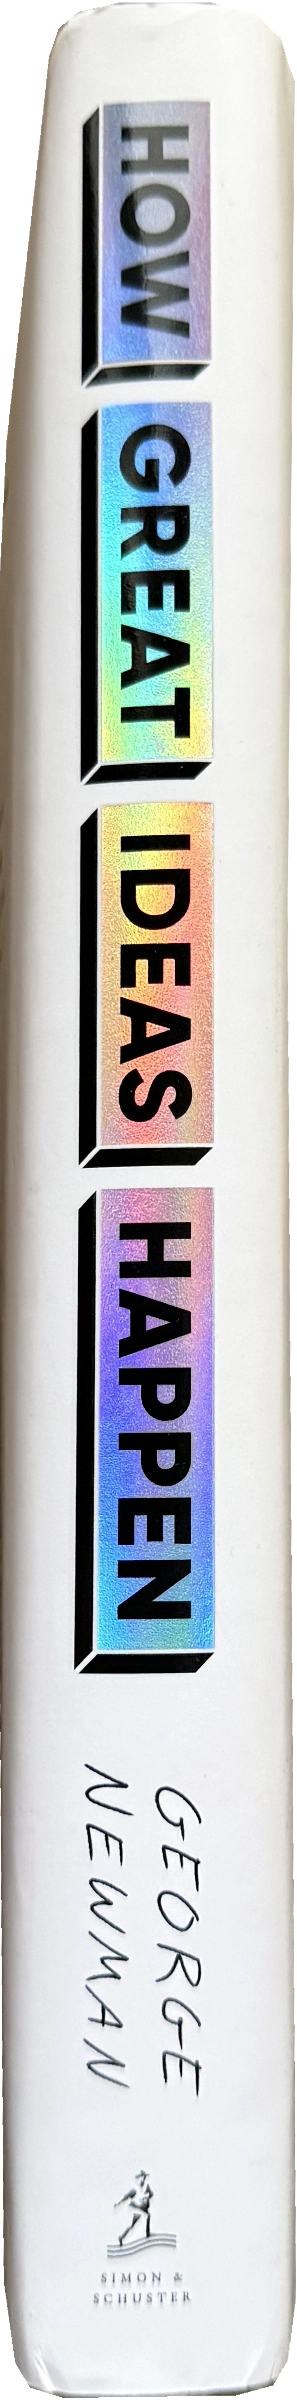
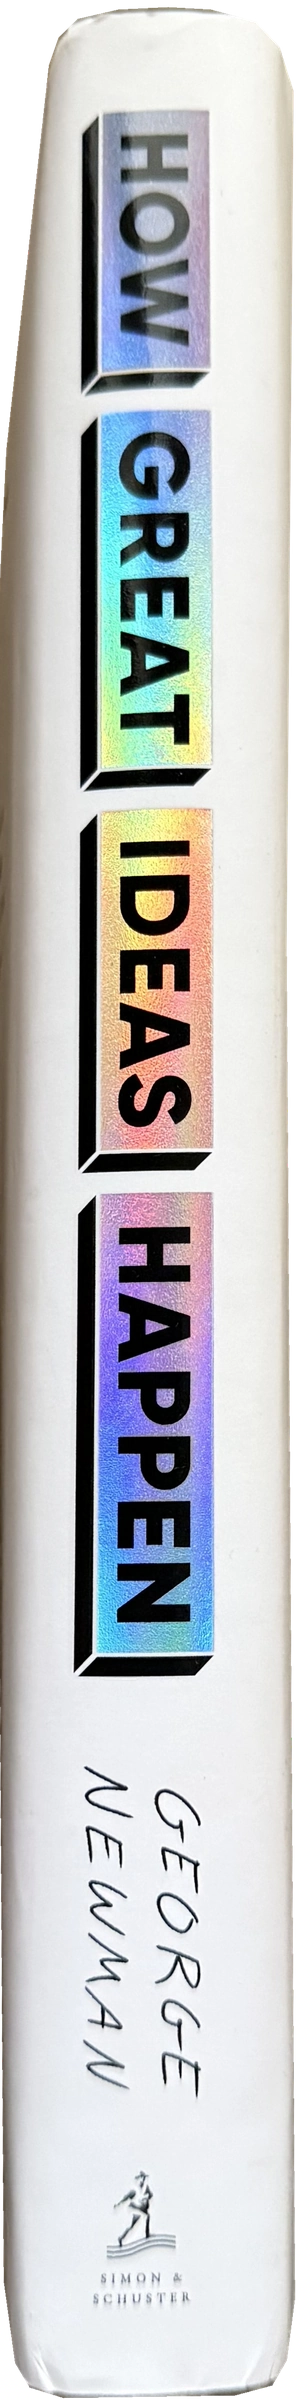
Remove two titles and repair Great Ideas spine top edge

diff --git a/src/library.js b/src/library.js
@@ -68,41 +68,6 @@ export const books = [
     "photoPresentation": true
   },
   {
-    "id": "co-intelligence",
-    "title": "Co-Intelligence",
-    "subtitle": "Living and Working with AI",
-    "author": "Ethan Mollick",
-    "color": "#354332",
-    "ink": "#181a19",
-    "height": 3.6,
-    "width": 0.44,
-    "depth": 2.36,
-    "binding": "paper",
-    "topic": "Working with AI",
-    "bibliographyConfirmed": true,
-    "notes": [],
-    "takeaways": [],
-    "questions": [],
-    "purchaseUrl": "https://bookshop.org/search?keywords=Co-Intelligence%20Ethan%20Mollick",
-    "affiliate": false,
-    "spineImage": "/images/books/co-intelligence-individual-spine.webp",
-    "coverImage": "/images/books/co-intelligence-individual-cover.webp",
-    "roughness": 0.68,
-    "metalness": 0,
-    "spineCrop": [
-      0,
-      1
-    ],
-    "spineSilhouette": false,
-    "sourcePhoto": true,
-    "spinePerspectiveFit": true,
-    "photoPresentation": true,
-    "coverCrop": [
-      0,
-      1
-    ]
-  },
-  {
     "id": "empire-of-ai",
     "title": "Empire of AI",
     "subtitle": "Dreams and Nightmares in Sam Altman’s OpenAI",
@@ -277,38 +242,6 @@ export const books = [
     "photoPresentation": true
   },
   {
-    "id": "the-artists-way",
-    "title": "The Artist’s Way",
-    "author": "Julia Cameron",
-    "subtitle": "A Spiritual Path to Higher Creativity",
-    "color": "#a32446",
-    "ink": "#fff4dd",
-    "topic": "Creativity & practice",
-    "height": 4.5,
-    "width": 0.36,
-    "depth": 3.5,
-    "binding": "paper",
-    "spineImage": "/images/books/the-artists-way-individual-spine.webp",
-    "coverImage": "/images/books/the-artists-way-individual-cover.webp",
-    "spineCrop": [
-      0,
-      1
-    ],
-    "coverCrop": [
-      0,
-      1
-    ],
-    "spinePerspectiveFit": true,
-    "photoPresentation": true,
-    "sourcePhoto": true,
-    "bibliographyConfirmed": true,
-    "notes": [],
-    "takeaways": [],
-    "questions": [],
-    "purchaseUrl": "https://bookshop.org/search?keywords=The%20Artist%27s%20Way%20Julia%20Cameron",
-    "affiliate": false
-  },
-  {
     "id": "how-great-ideas-happen",
     "title": "How Great Ideas Happen",
     "author": "George Newman",
@@ -341,7 +274,8 @@ export const books = [
       1
     ],
     "photoPresentation": true,
-    "spinePerspectiveFit": true
+    "spinePerspectiveFit": true,
+    "spineFitEnds": true
   },
   {
     "id": "crisis-engineering",

diff --git a/src/LibraryScene.jsx b/src/LibraryScene.jsx
@@ -144,7 +144,8 @@ function PhotographicBook({book,onOpen,reader=false,reducedMotion=false}){
   const bodyWidth=widths[Math.floor(widths.length/2)];
   // Correct perspective taper in selected references using broad body samples.
   // Hold the fit outside the body so the real rounded head and foot survive.
-  const stations=[.15,.35,.55,.75,.85].map(t=>{
+  const fitStations=book.spineFitEnds?[.03,.08,.15,.35,.55,.75,.85,.92,.97]:[.15,.35,.55,.75,.85];
+  const stations=fitStations.map(t=>{
    const v=bottom+(top-bottom)*t;
    const band=rows.filter(r=>Math.abs(r.v-v)<(top-bottom)*.035);
    return {v,c:band.reduce((s,r)=>s+r.c,0)/band.length,w:band.reduce((s,r)=>s+r.w,0)/band.length};
@@ -162,7 +163,7 @@ function PhotographicBook({book,onOpen,reader=false,reducedMotion=false}){
    p.setXYZ(i,(u-fit.c)*book.width/fit.w,((v-bottom)/(top-bottom)-.5)*book.height,0);
   }
   geometry.computeVertexNormals();return geometry;
- },[source,texture,kind,width,book.height,book.width,book.spinePerspectiveFit]);
+ },[source,texture,kind,width,book.height,book.width,book.spinePerspectiveFit,book.spineFitEnds]);
  useEffect(()=>()=>face.dispose(),[face]);
  useFrame((_,delta)=>{
   if(!ref.current)return;

diff --git a/scripts/extract-individual-photos.py b/scripts/extract-individual-photos.py
@@ -29,7 +29,7 @@ specs += [
 ('the-coming-wave','spine','IMG_7662',[(357,75),(447,75),(489,1144),(381,1144)],[(359,79),(366,77),(378,78),(391,76),(405,77),(422,75),(438,76),(445,81),(449,225),(459,448),(469,684),(483,1007),(489,1120),(484,1131),(476,1140),(392,1143),(383,1139),(381,1129)]),
 ('the-coming-wave','cover','IMG_7661',[(166,177),(717,140),(783,1074),(167,1059)],[(167,181),(179,175),(712,141),(717,142),(782,1070),(780,1073),(176,1059),(168,1054)])]
 specs += [
-('how-great-ideas-happen','spine','IMG_7678',[(357,84),(482,84),(490,1078),(369,1078)],[(378,108),(382,96),(390,89),(407,85),(446,85),(465,90),(475,100),(481,119),(481,478),(489,1037),(486,1062),(480,1072),(465,1076),(395,1077),(381,1073),(375,1063),(370,1030),(358,380),(362,272)]),
+('how-great-ideas-happen','spine','IMG_7678',[(357,80),(482,80),(490,1078),(369,1078)],[(378,108),(382,96),(390,88),(407,84),(428,83),(446,84),(465,89),(475,100),(481,119),(481,478),(489,1037),(486,1062),(480,1072),(465,1076),(395,1077),(381,1073),(375,1063),(370,1030),(358,380),(362,272)]),
 ('how-great-ideas-happen','cover','IMG_7677',[(134,157),(715,140),(744,1034),(141,1048)],[(135,168),(144,162),(177,156),(363,145),(555,142),(695,143),(713,147),(743,1027),(737,1033),(690,1038),(406,1047),(157,1048),(145,1043),(141,1033)]),
 ('empire-of-ai','cover','IMG_7673',[(141,144),(729,122),(774,1050),(141,1061)],[(141,158),(146,150),(190,142),(318,135),(460,129),(619,123),(712,125),(727,129),(774,1032),(768,1045),(742,1050),(603,1057),(405,1062),(191,1059),(153,1056),(143,1049)])]
 specs += [
@@ -63,7 +63,7 @@ for id,kind,name,quad,poly in specs:
  h=2400;w=round(h*((np.linalg.norm(np.array(quad[0])-quad[1])+np.linalg.norm(np.array(quad[2])-quad[3]))/2)/((np.linalg.norm(np.array(quad[0])-quad[3])+np.linalg.norm(np.array(quad[1])-quad[2]))/2))
  # Rectifying dense cloth directly at export size aliases its thread pattern
  # into broad grid bands. Supersample the warp, then low-pass downsample once.
- supersample=3 if id=='the-creative-act' and kind=='spine' else 1
+ supersample=3 if id in ('the-creative-act','how-great-ideas-happen') and kind=='spine' else 1
  dst=[(0,0),(w*supersample,0),(w*supersample,h*supersample),(0,h*supersample)];A=[];B=[]
  for (x,y),(sx,sy) in zip(dst,quad):
   u,v=sx*scale,sy*scale;A.extend([[x,y,1,0,0,0,-u*x,-u*y],[0,0,0,x,y,1,-v*x,-v*y]]);B.extend([u,v])
